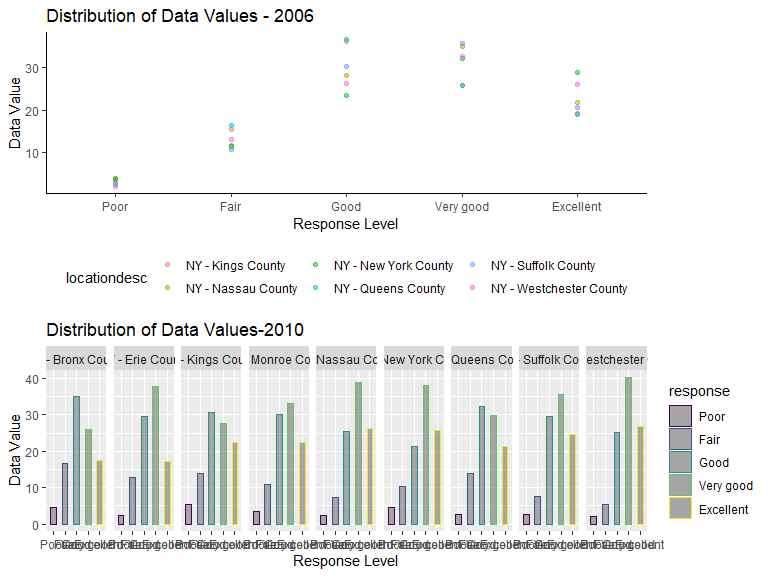
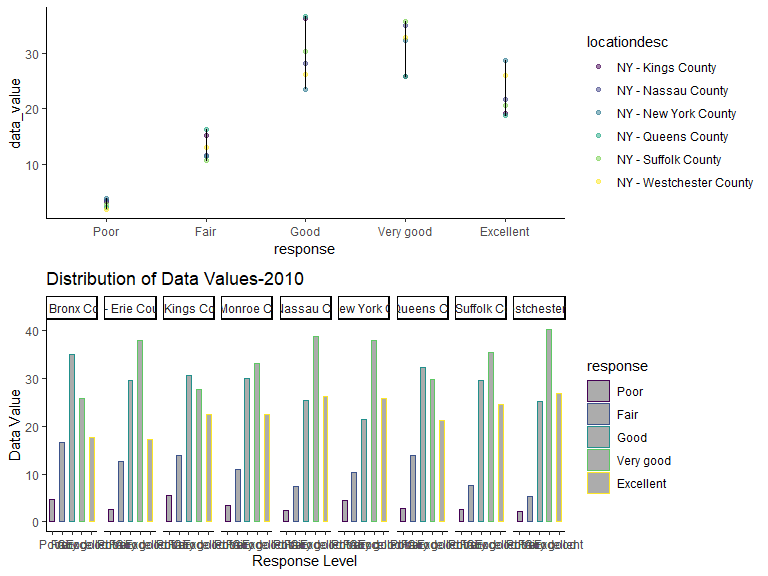
I changed some minor things in the plot.

diff --git a/p8105_hw3_ha2546.md b/p8105_hw3_ha2546.md
@@ -149,26 +149,41 @@ brfss_location_2010 = brfss_data %>%
 We observed that during 2002, there were 6 locations satissfying this
 condition, and during 2010 this number was 14.
 
-**ungroup did not work**
+In this part, I made a subset of data from excellent responses, then I
+summarized the mean of the data\_value variable in different US states
+and then made a spagetti plot of the mean crude prevalence percentage
+(*data\_value*) against different years.
 
 ``` r
-# Ex_spagettiplot = brfss_data %>% 
-#   filter(
-#     response == "Excellent"
-#   ) %>% 
-#   group_by(locationabbr) %>% 
-#   summarize(
-#     mean_location_data = mean(data_value)
-#   ) %>% 
-#   ungroup() %>% 
-#   select(year, locationabbr, mean_location_data)
+  brfss_exc = brfss_data %>%
+  filter(
+    response == "Excellent"
+  ) %>%
+  group_by(locationabbr, year) %>%
+  summarize(
+    mean_exc_location = mean(data_value)
+  )
+
+brfss_exc_spagetti = brfss_exc %>% 
+  ggplot(aes(x = year, y = mean_exc_location, color = locationabbr)) +
+  geom_line() +
+    labs(
+    title = "Mean Prevalence 2002 - 2010 among US States",
+    x = "Year",
+    y = "Mean Prevalence (%)",
+    caption = "From BRFSS Excellent Responses")
+
+brfss_exc_spagetti + labs(color = "STATES")
 ```
 
-**geom\_smooth doesn’t work** 2010, distribution of data\_value for
-responses (“Poor” to “Excellent”) among locations in NY State
+<img src="p8105_hw3_ha2546_files/figure-gfm/unnamed-chunk-4-1.png" width="90%" />
+
+2010, distribution of data\_value for responses (“Poor” to “Excellent”)
+among locations in NY State
 
 ``` r
 library("patchwork")
+
 graph_2006 = brfss_data %>%
   filter(
     year == "2006",
@@ -177,6 +192,7 @@ graph_2006 = brfss_data %>%
   group_by(locationdesc) %>%
   ggplot(aes(x = response, y = data_value)) +
   geom_point(aes(color = locationdesc), alpha = .5) +
+  geom_line()
   labs(
     title = "Distribution of Data Values - 2006",
     x = "Response Level",
@@ -185,9 +201,11 @@ graph_2006 = brfss_data %>%
   ) +
   theme_classic() +
   theme(legend.position = "bottom")
+```
 
+    ## NULL
 
-
+``` r
 graph_2010 = brfss_data %>%
   filter(
     year == "2010",
@@ -231,3 +249,5 @@ graph_2010 = brfss_data %>%
 ```
 
 <img src="p8105_hw3_ha2546_files/figure-gfm/unnamed-chunk-5-1.png" width="90%" />
+
+## Problem 3
